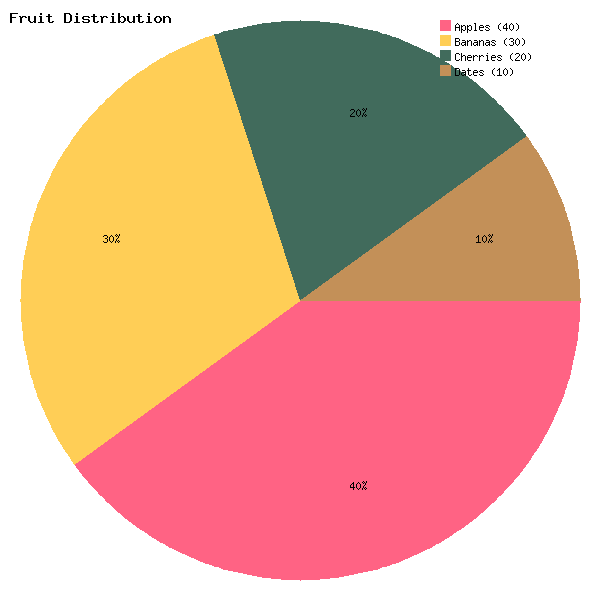
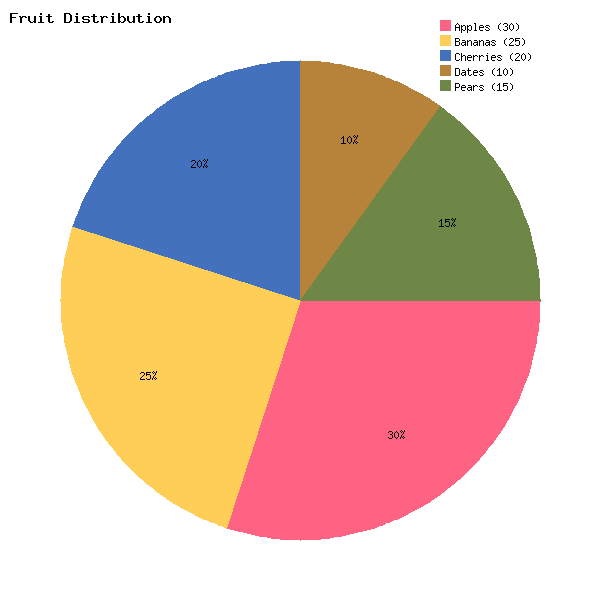
Added BarGroupChart

diff --git a/examples/example-bar-group.php b/examples/example-bar-group.php
@@ -1,0 +1,32 @@
+<?php
+
+require_once __DIR__ . '/../vendor/autoload.php';
+
+use Tigress\Charts;
+use Tigress\BarGroupChart;
+
+$data = [
+    ['label' => 'Score 1', 'values' => [5, 6, 7, 9]],
+    ['label' => 'Score 2', 'values' => [3, 2, 9]],
+    ['label' => 'Score 3', 'values' => [4, 7]],
+    ['label' => 'Score 4', 'values' => [8, 5, 6]],
+    ['label' => 'Score 5', 'values' => [2, 3, 4, 5]],
+    ['label' => 'Score 6', 'values' => [1, 2, 3]],
+    ['label' => 'Score 7', 'values' => [4, 5]],
+    ['label' => 'Score 8', 'values' => [6, 7, 8]],
+];
+
+$chart = new BarGroupChart();
+$chart
+    ->setTitle('Grouped Bar Chart - Questionnaire')
+    ->setData($data)
+    ->setSize(800, 400)
+    ->showValues()
+    ->showLegend()
+    ->showXAxis()
+    ->showYAxis()
+    ->setYAxisTicks(5)
+    ->setXAxisTickSpacing(1)
+    ->render(__DIR__ . '/bar_group_chart.png');
+
+echo "Grouped bar chart generated: bar_group_chart.png\n";

diff --git a/examples/example-bar.php b/examples/example-bar.php
@@ -5,7 +5,7 @@ require_once __DIR__ . '/../vendor/autoload.php';
 use Tigress\Charts;
 
 $data = [
-    ['label' => 'January', 'value' => 120],
+    ['label' => 'January', 'value' => [10, 12]],
     ['label' => 'February', 'value' => 90, 'color' => [255, 99, 132]],
     ['label' => 'March', 'value' => 150],
     ['label' => 'April', 'value' => 60, 'color' => [54, 162, 235]],
@@ -17,6 +17,10 @@ Charts::bar()
     ->setSize(800, 400)
     ->showValues()
     ->showLegend()
+    ->showXAxis()
+    ->showYAxis()
+    ->setYAxisTicks(5)
+    ->setXAxisTickSpacing(1)
     ->render(__DIR__ . '/bar_chart.png');
 
 echo "Bar chart generated: bar_chart.png\n";

diff --git a/examples/example-pie.php b/examples/example-pie.php
@@ -5,10 +5,11 @@ require_once __DIR__ . '/../vendor/autoload.php';
 use Tigress\Charts;
 
 $data = [
-    ['label' => 'Apples', 'value' => 40, 'color' => [255, 99, 132]],
-    ['label' => 'Bananas', 'value' => 30, 'color' => [255, 206, 86]],
+    ['label' => 'Apples', 'value' => 30, 'color' => [255, 99, 132]],
+    ['label' => 'Bananas', 'value' => 25, 'color' => [255, 206, 86]],
     ['label' => 'Cherries', 'value' => 20],
     ['label' => 'Dates', 'value' => 10],
+    ['label' => 'Pears', 'value' => 15],
 ];
 
 Charts::pie()

diff --git a/examples/example-line.php b/examples/example-line.php
@@ -17,6 +17,10 @@ Charts::line()
     ->setSize(800, 400)
     ->showValues()
     ->showLegend()
+    ->showXAxis()
+    ->showYAxis()
+    ->setYAxisTicks(4)
+    ->setXAxisTickSpacing(1)
     ->render(__DIR__ . '/line_chart.png');
 
 echo "Line chart generated: line_chart.png\n";
